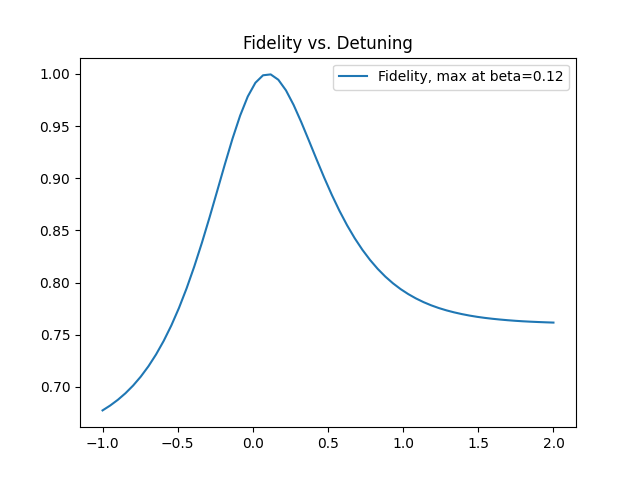
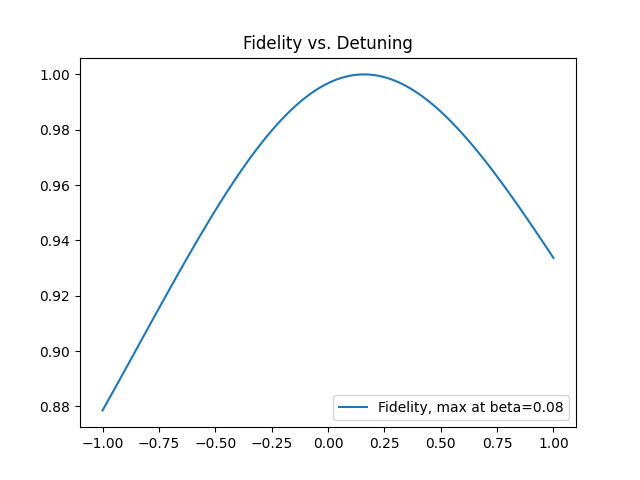
fixed magnetic sensor

diff --git a/magnetic_sensor.py b/magnetic_sensor.py
@@ -2,102 +2,37 @@ import numpy as np
 import qutip as qt
 import matplotlib.pyplot as plt
 import multiprocessing as mp
+from utils import TLS
 
-precision = 20
-range_val = 1
+omega_0 = 2
+omega = 2.08
 
-omega_0 = 2 * np.pi
-omega = 2.05 * np.pi
-tau = 1
-
-raising = qt.Qobj(np.array([[0, 1], [0, 0]]))
-lowering = qt.Qobj(np.array([[0, 0], [1, 0]]))
-
-# Define time points
-n_points = 200
-t_points = np.linspace(-10, 10, n_points)
-
-def sech(t):
-    return 1 / np.cosh(t / tau)
-
-def amplitude(t, alpha):
-    return alpha / (np.pi * tau) * sech(t / tau)
-
-def detuning(t, beta):
-    # Demokov-Kunikew
-    return (beta * t + 2 * (omega_0 - omega) * t + beta * (np.log(np.cosh(t)) - np.log(np.cosh(t_points[0])))) / (
-            np.pi * tau)
-
-def rabi_ham(t, args, alpha, beta):
-    # Hioe rotating frame
-    return 1/2 * amplitude(t, alpha) * np.exp(-1j * detuning(t, beta)) * raising + \
-           1/2 * amplitude(t, alpha) * np.exp(1j * detuning(t, beta)) * lowering
-
-psi_0 = qt.basis(2, 0)
-
-
-def simulate_evolution(beta, plot=False):
-    beta *= np.pi
-    alpha = (np.sqrt(np.pi * np.pi + beta * beta) / (np.pi)) * (np.pi)
-    print('alpha', alpha)
-    print('beta', beta)
-
-    def hamiltonian(t, args):
-        return rabi_ham(t, args, alpha, beta)
-
-    # Simulate time evolution
-    result = qt.mesolve(H=hamiltonian,
-                        rho0=psi_0,
-                        tlist=t_points,
-                        c_ops=[],
-                        e_ops=[qt.sigmax(), qt.sigmay(), qt.sigmaz()],
-                        options=qt.Options(store_states=True),
-                        args={'alpha': alpha, 'beta': beta})
-
-    # Get population of excited state:
-    x_expectation = result.expect[0][-1]
-    y_expectation = result.expect[1][-1]
-    z_expectation = result.expect[2][-1]
-    if plot:
-        fig, axes = plt.subplots(1, 1, figsize=(10, 6))
-        axes.plot(t_points, result.expect[0], label=r'$\langle \sigma_x \rangle$')
-        axes.plot(t_points, result.expect[1], label=r'$\langle \sigma_y \rangle$')
-        axes.plot(t_points, result.expect[2], label=r'$\langle \sigma_z \rangle$')
-        axes.legend(loc=0)
-        axes.set_xlabel('Time')
-        axes.set_ylabel('Expectation values')
-        axes.set_title('Sech Pulse Effect')
-        plt.savefig(f'sech_{beta}.png')
-        # plt.show()
-    fidelity = qt.fidelity(result.states[-1], qt.basis(2, 1))
-    print(fidelity)
-
-    return x_expectation, y_expectation, z_expectation, fidelity
-
-def parallel_simulation(beta, plot):
-    result_tuple = simulate_evolution(beta, plot)
-    return result_tuple
+def parallel_simulation(beta):
+    system = TLS('sech', beta=beta, delta=omega_0 - omega)
+    system.evolve()
+    fidelity = system.final_fidelity
+    # delete system to free memory
+    del system
+    return fidelity
+    
 
 if __name__ == '__main__':
     min_beta = -1
-    max_beta = 2
-    num_beta_steps = 60
+    max_beta = 1
+    num_beta_steps = 120
     betas = np.linspace(min_beta, max_beta, num_beta_steps)
 
-    #plot only if beta is first or last
-    plots = [True if beta == min_beta or beta == max_beta else False for beta in betas]
-    with mp.Pool() as pool:
-        results = pool.starmap(parallel_simulation, zip(betas, plots))
-    x_expectations_list, y_expectations_list, z_expectations_list, fidelity_list = zip(*results)
+    # Parallelize the simulation
+    pool = mp.Pool()
+    fidelity_list = pool.map(parallel_simulation, betas)
+    pool.close()
+    pool.join()
 
-    x_expectations_array = np.array(x_expectations_list)
-    y_expectations_array = np.array(y_expectations_list)
-    z_expectations_array = np.array(z_expectations_list)
     fidelity_array = np.array(fidelity_list)
     plt.figure()
     max_beta = betas[np.argmax(fidelity_array)]
     
-    plt.plot(betas, fidelity_array, label=f'Fidelity, max at beta={round(max_beta,2)}')
+    plt.plot(betas, fidelity_array, label=f'Fidelity, max at beta={round(max_beta,3)/(2)}')
     plt.legend()
     plt.title('Fidelity vs. Detuning')
     plt.savefig('fidelity_old.png')

diff --git a/utils.py b/utils.py
@@ -17,14 +17,11 @@ def sech_amplitude(t, alpha, tau=1):
     return alpha/(np.pi * tau) * sech(t/tau)
 
 def sech_detuning(t, beta, delta=0, tau=1, t0=-10):#Demokov-Kunikew
-    return (beta*t + 2*delta*t + beta*(np.log(np.cosh(t))- np.log(np.cosh(t0))))/(np.pi * tau)#(omega_0 - omega)*t
+    return (beta*t + 2*delta*t + beta*(np.log(np.cosh(t)) - np.log(np.cosh(t0))))/(np.pi * tau)#(omega_0 - omega)*t
 
 
 def alpha_func(phi, beta):
-    return (np.sqrt(phi**2 + beta**2)/(np.pi))*(np.pi)
-
-# def sech(t):
-#     return 1 / np.cosh(t)
+    return (np.sqrt(phi**2 + beta**2))
 
 def square_amplitude(t, alpha, tau=1):
     if t < -1 / (np.pi*tau):
@@ -43,18 +40,19 @@ def square_detuning(t, beta, delta, tau=1):
         return -((beta+2*delta)*tau*(np.arctan(np.sin(-np.pi/2)- np.arctan(np.sin(t/tau))))) + beta*tau*np.log(np.cos(-np.pi/2)*sech(t/tau))
 
 class TLS:
-    def __init__(self, pulse_shape, psi_0=None, t_points=None, ham=None, alpha=None, beta=None, delta=None, phi=None, tau=1):
+    def __init__(self, pulse_shape, psi_0=None, t_points=None, ham=None, alpha=None, beta=None, delta=0, phi=np.pi, tau=1):
+        self.pulse_name = pulse_shape
         self.psi_0 = psi_0 if psi_0 is not None else qt.basis(2, 0)
         self.t_points = t_points if t_points is not None else np.linspace(-10, 10, 100)
         self.t0 = self.t_points[0]
-        self.delta = delta if delta is not None else 0
-        self.phi = phi if phi is not None else np.pi
-        self.beta = beta if beta is not None else beta
+        self.delta = delta
+        self.phi = phi
+        self.beta = beta
         self.alpha = alpha if alpha is not None else alpha_func(self.phi, beta)
         self.tau = tau
-        print(self.phi**2 - (self.alpha**2 - self.beta**2))
         self.states = None
         self.expect = None
+        self.final_fidelity = None
         self.evolved = False
 
         if pulse_shape == 'square':
@@ -82,7 +80,7 @@ class TLS:
                             options=qt.Options(store_states=True))
         self.states = result.states
         self.expect = result.expect
-        self.fidelities = qt.fidelity(result.states[-1], psi_1)
+        self.final_fidelity = qt.fidelity(result.states[-1], psi_1)
         self.evolved = True
 
         return 
@@ -99,12 +97,15 @@ class TLS:
         ax1.set_xlabel('Time')
         ax1.set_ylabel('Expectation values')
         ax1.set_title('Sech Pulse Effect')
+        # put some vspace between the two plots
+        plt.subplots_adjust(hspace=0.5)
+        
 
         ax2.plot(self.t_points, [self.amplitude(t_point) for t_point in self.t_points])
         ax2.set_xlabel('Time')
         ax2.set_ylabel('Pulse amplitude')
         ax2.set_title('Pulse amplitude')
-        plt.savefig(title + '.png')
+        plt.savefig(f'{self.pulse_name}-{title}.png')
         return
     
     def plot_bloch(self, title='bloch-path'):
@@ -119,4 +120,4 @@ class TLS:
         b.add_points([self.expect[0], self.expect[1], self.expect[2]], meth='l')
 
         fig.tight_layout()
-        b.save(title + '.png')
+        b.save(f'{self.pulse_name}-bloch.png')

diff --git a/dynamics.py b/dynamics.py
@@ -6,10 +6,9 @@ n_points = 1000
 t_points = np.linspace(-10, 10, n_points)
 
 beta = 3*np.pi
-sys = TLS('sech', beta=beta, delta=-beta/2)
+sys = TLS('square', beta=beta, delta=0, phi=3*np.pi, t_points=t_points)
+print(sys.alpha/np.pi)
 sys.evolve()
 sys.plot()
 sys.plot_bloch()
-
-# get population of excited state:
 
